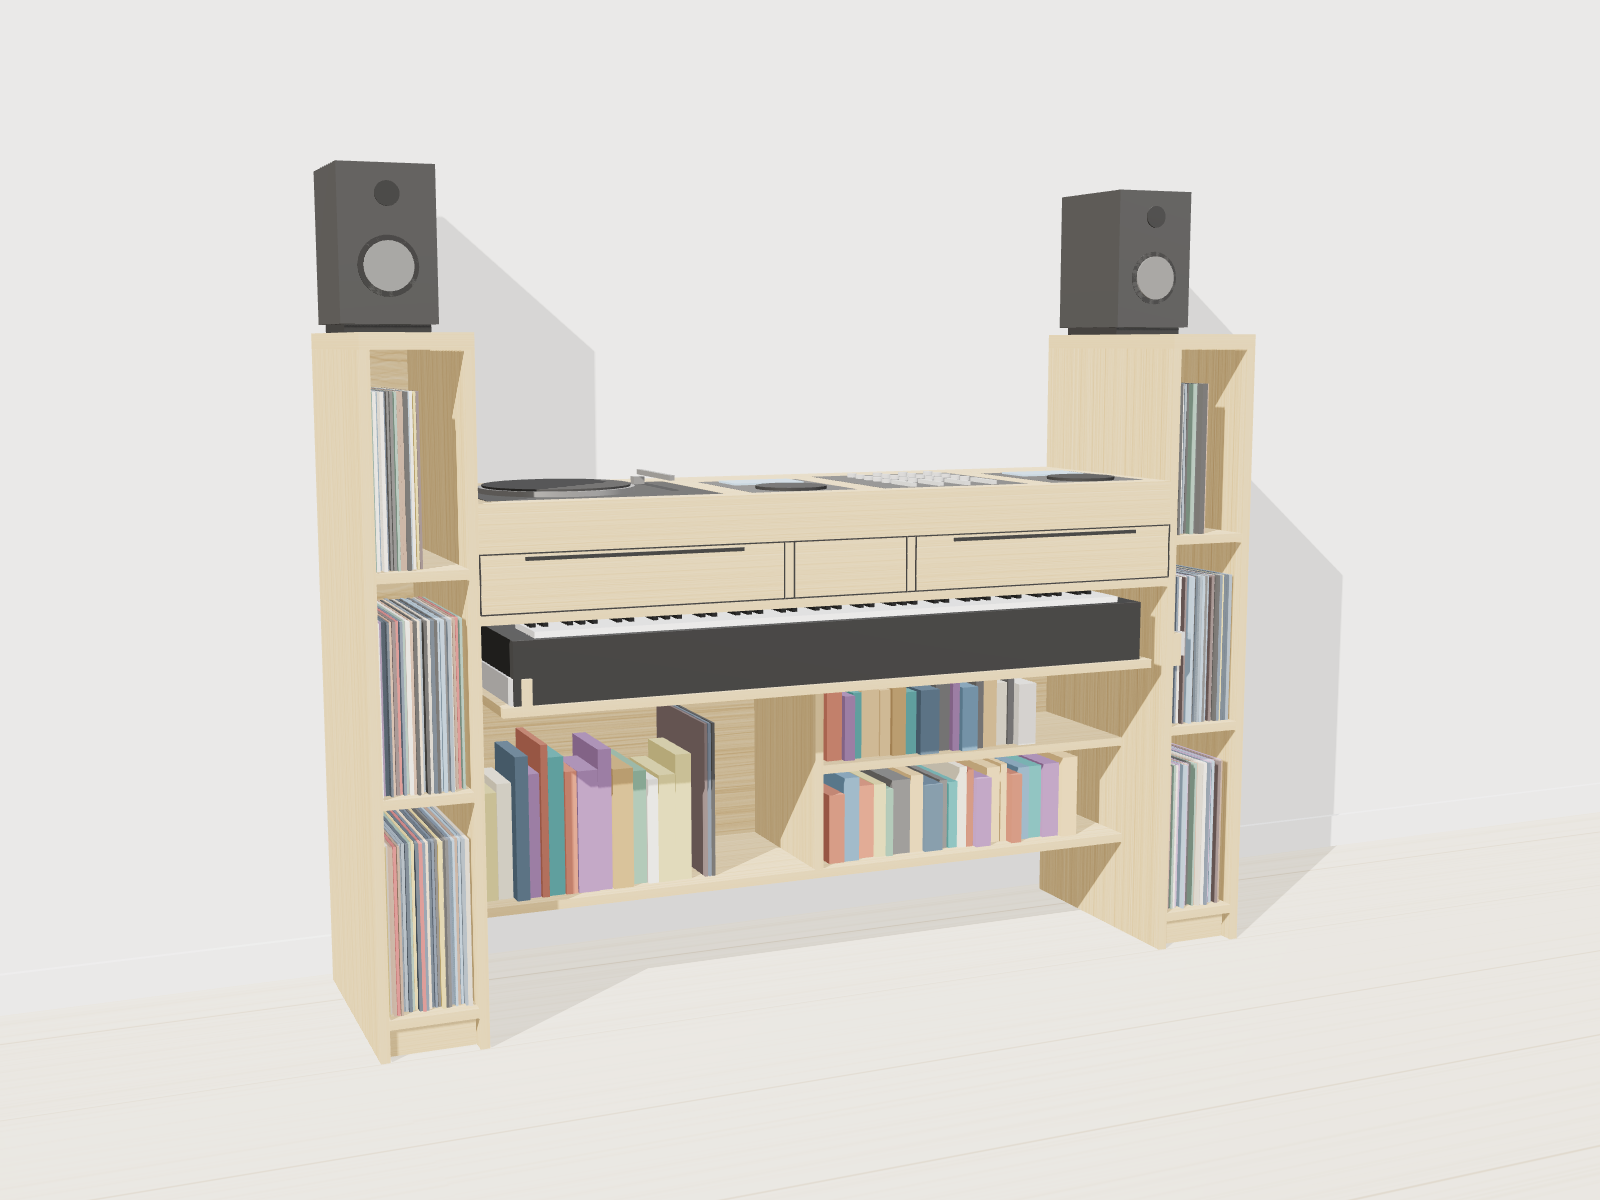
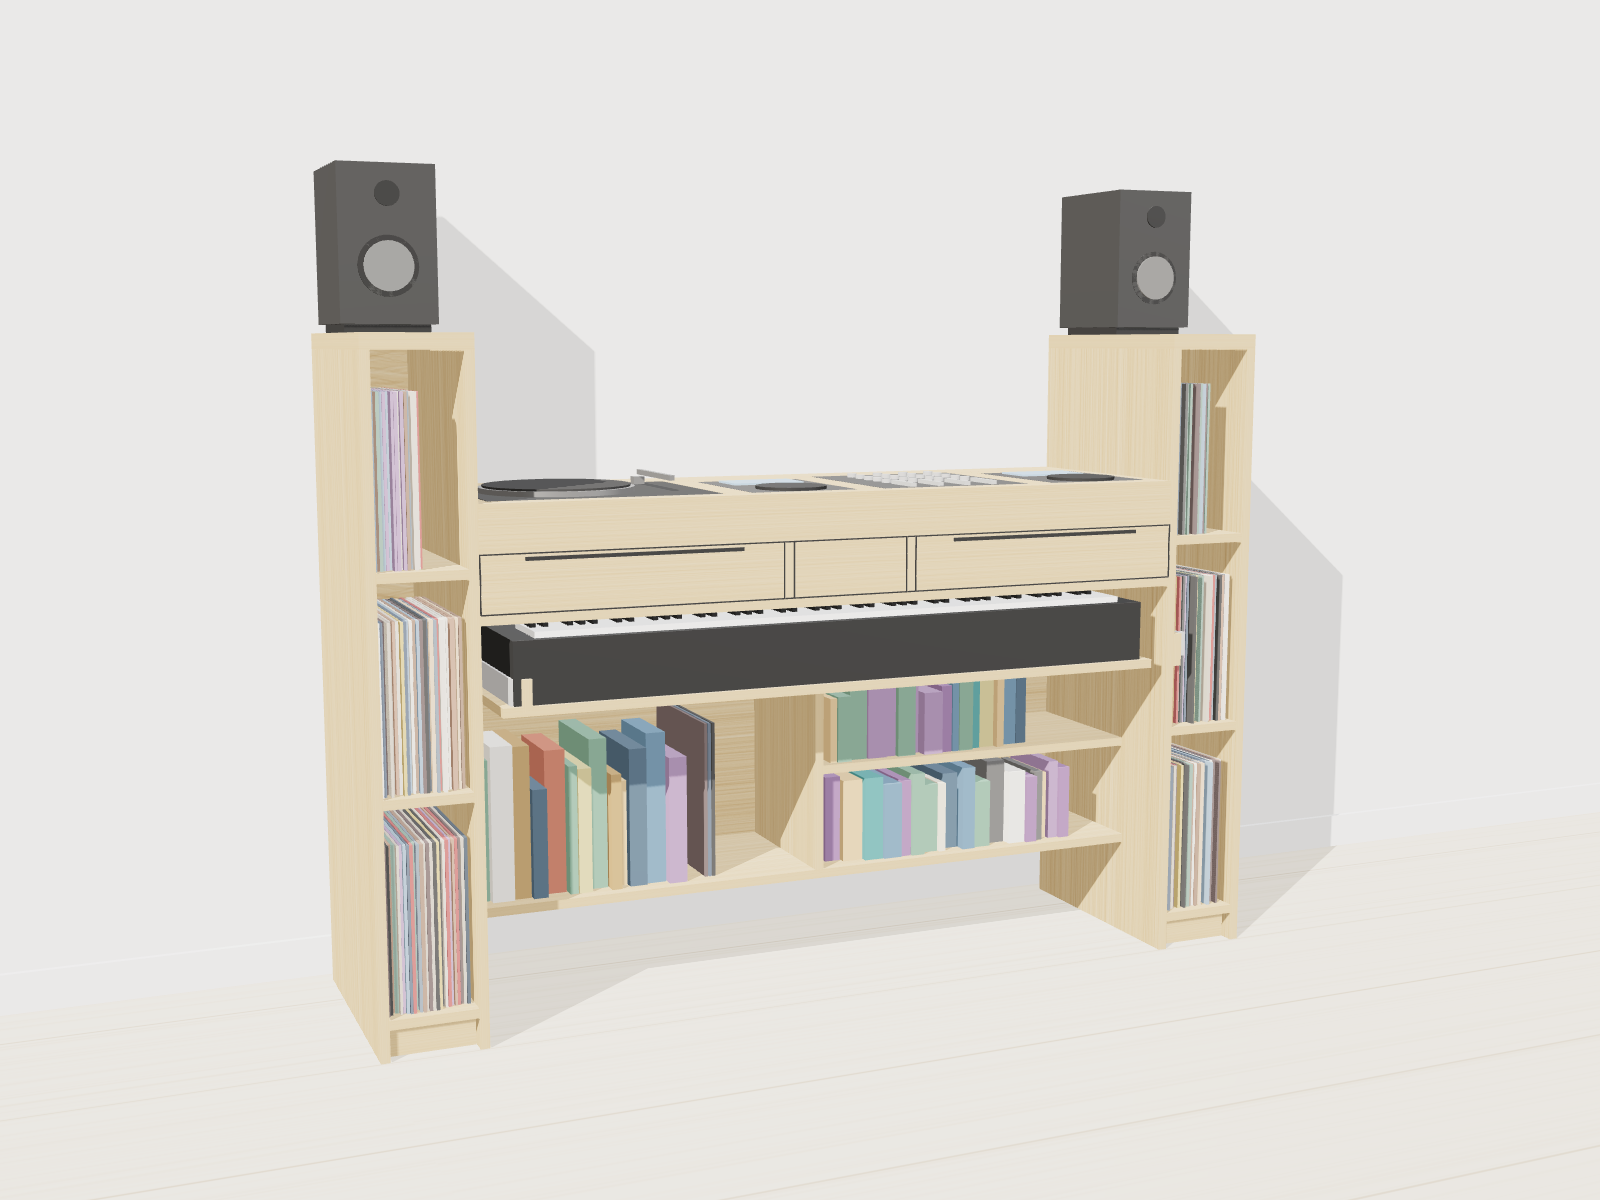
Seed render-cg.html's PRNG for reproducible concept renders
Math.random() was used in 5 places (wood grain, floor grain, record
colours, book colours/sizes) so every screenshot of render-cg.html
scrambled all of these even with identical geometry. That's why v1's
book-zone setback (10 cm, landed in v1.7) was never re-shot: doing so
would have made the diff unreviewable.

Swap in an inline mulberry32 PRNG seeded from a constant (0xC0FFEE),
shared by both variants so v1/v2 stay visually comparable like the
SVG sets. Re-shoot both renders now that it's safe: render-cg.png
finally shows the book zone set back from the front plane, and
render-cg-v2.png shows the flush-mounted gear in the thicker slab.
Verified a second render of each variant is byte-identical (sha256)
to the committed PNG.

Changed region(s): [[0.2188, 0.3083, 0.4375, 0.8633], [0.5, 0.555, 0.6875, 0.74], [0.7188, 0.3083, 0.7812, 0.7708]]

diff --git a/dj-piano-console/render-cg.html b/dj-piano-console/render-cg.html
@@ -1,6 +1,12 @@
 <!doctype html><html><head><meta charset="utf-8"><style>html,body{margin:0;background:#f3f1ec;overflow:hidden}canvas{display:block}</style></head><body>
 <script src="https://cdnjs.cloudflare.com/ajax/libs/three.js/r128/three.min.js"></script>
 <script>
+// Deterministic PRNG (mulberry32) seeded from a constant, so repeated renders of the same
+// variant are byte-identical instead of reshuffling every book/record colour and wood-grain
+// pixel on each screenshot. Same seed feeds both variants so they stay visually comparable
+// to each other, exactly like the two SVG sets.
+function mulberry32(a){return function(){a|=0;a=a+0x6D2B79F5|0;let t=Math.imul(a^a>>>15,1|a);t=t+Math.imul(t^t>>>7,61|t)^t;return((t^t>>>14)>>>0)/4294967296;};}
+const rand=mulberry32(0xC0FFEE);
 const V = new URLSearchParams(location.search).get('v') === '2' ? 2 : 1; // v2: flush-mounted gear, thicker apparent top, shallower drawer band, book zone set back 15 (v1.7 sets it back 10)
 const WALL_GAP = V===2?5.0:0; // v2 stands off the wall so the open trough can vent [0]
 const W=1600,H=1200;let OX=0; // x offset (cm) applied by box()/cyl(), used to shift the bay parts
@@ -18,8 +24,8 @@ sun.castShadow=true;sun.shadow.mapSize.set(4096,4096);const sc=sun.shadow.camera
 const fill=new THREE.DirectionalLight(0xe6eeff,0.4);fill.position.set(3.5,2.2,3);scene.add(fill);
 const rim=new THREE.DirectionalLight(0xffffff,0.25);rim.position.set(0.9,3,-3);scene.add(rim);
 function woodTex(vertical,base,streakDark,streakLight){const c=document.createElement('canvas');c.width=1024;c.height=1024;const g=c.getContext('2d');g.fillStyle=base;g.fillRect(0,0,1024,1024);
- for(let i=0;i<520;i++){const y=Math.random()*1024;const w=0.8+Math.random()*3.2;const a=0.05+Math.random()*0.2;g.strokeStyle=(Math.random()<0.5?streakDark:streakLight).replace('A',a.toFixed(2));g.lineWidth=w;g.beginPath();g.moveTo(-60,y);for(let x=0;x<=1100;x+=40){g.lineTo(x,y+Math.sin(x/160+i)*5+(Math.random()-0.5)*1.5);}g.stroke();}
- const id=g.getImageData(0,0,1024,1024);const d=id.data;for(let i=0;i<d.length;i+=4){const n=(Math.random()-0.5)*9;d[i]+=n;d[i+1]+=n;d[i+2]+=n;}g.putImageData(id,0,0);
+ for(let i=0;i<520;i++){const y=rand()*1024;const w=0.8+rand()*3.2;const a=0.05+rand()*0.2;g.strokeStyle=(rand()<0.5?streakDark:streakLight).replace('A',a.toFixed(2));g.lineWidth=w;g.beginPath();g.moveTo(-60,y);for(let x=0;x<=1100;x+=40){g.lineTo(x,y+Math.sin(x/160+i)*5+(rand()-0.5)*1.5);}g.stroke();}
+ const id=g.getImageData(0,0,1024,1024);const d=id.data;for(let i=0;i<d.length;i+=4){const n=(rand()-0.5)*9;d[i]+=n;d[i+1]+=n;d[i+2]+=n;}g.putImageData(id,0,0);
  const t=new THREE.CanvasTexture(c);t.wrapS=t.wrapT=THREE.RepeatWrapping;t.encoding=THREE.sRGBEncoding;t.anisotropy=8;if(vertical){t.center.set(0.5,0.5);t.rotation=Math.PI/2;}return t;}
 const oakH=new THREE.MeshStandardMaterial({map:woodTex(false,'#dcbf92','rgba(170,132,82,A)','rgba(240,222,190,A)'),roughness:0.7});
 const oakV=new THREE.MeshStandardMaterial({map:woodTex(true,'#dcbf92','rgba(170,132,82,A)','rgba(240,222,190,A)'),roughness:0.7});
@@ -31,7 +37,7 @@ const grey=new THREE.MeshStandardMaterial({color:0x8a8a8a,roughness:0.5});
 function box(w,h,d,x,y,z,m){const mesh=new THREE.Mesh(new THREE.BoxGeometry(w/100,h/100,d/100),m);mesh.position.set((x+OX)/100,y/100,z/100);mesh.castShadow=true;mesh.receiveShadow=true;scene.add(mesh);return mesh;}
 function cyl(r,h,x,y,z,m,axisZ){const mesh=new THREE.Mesh(new THREE.CylinderGeometry(r/100,r/100,h/100,48),m);if(axisZ)mesh.rotation.x=Math.PI/2;mesh.position.set((x+OX)/100,y/100,z/100);mesh.castShadow=true;mesh.receiveShadow=true;scene.add(mesh);return mesh;}
 // room
-const floorTex=(()=>{const c=document.createElement('canvas');c.width=1024;c.height=1024;const g=c.getContext('2d');g.fillStyle='#e9dfcd';g.fillRect(0,0,1024,1024);for(let i=0;i<300;i++){const y=Math.random()*1024;g.strokeStyle=`rgba(200,180,150,${(0.04+Math.random()*0.1).toFixed(2)})`;g.lineWidth=1+Math.random()*2;g.beginPath();g.moveTo(0,y);g.lineTo(1024,y+(Math.random()-0.5)*6);g.stroke();}for(let y=0;y<1024;y+=128){g.strokeStyle='rgba(150,125,95,0.35)';g.lineWidth=2;g.beginPath();g.moveTo(0,y);g.lineTo(1024,y);g.stroke();}const t=new THREE.CanvasTexture(c);t.wrapS=t.wrapT=THREE.RepeatWrapping;t.repeat.set(4,4);t.encoding=THREE.sRGBEncoding;t.anisotropy=8;return t;})();
+const floorTex=(()=>{const c=document.createElement('canvas');c.width=1024;c.height=1024;const g=c.getContext('2d');g.fillStyle='#e9dfcd';g.fillRect(0,0,1024,1024);for(let i=0;i<300;i++){const y=rand()*1024;g.strokeStyle=`rgba(200,180,150,${(0.04+rand()*0.1).toFixed(2)})`;g.lineWidth=1+rand()*2;g.beginPath();g.moveTo(0,y);g.lineTo(1024,y+(rand()-0.5)*6);g.stroke();}for(let y=0;y<1024;y+=128){g.strokeStyle='rgba(150,125,95,0.35)';g.lineWidth=2;g.beginPath();g.moveTo(0,y);g.lineTo(1024,y);g.stroke();}const t=new THREE.CanvasTexture(c);t.wrapS=t.wrapT=THREE.RepeatWrapping;t.repeat.set(4,4);t.encoding=THREE.sRGBEncoding;t.anisotropy=8;return t;})();
 const floor=new THREE.Mesh(new THREE.PlaneGeometry(12,12),new THREE.MeshStandardMaterial({map:floorTex,roughness:0.6}));floor.rotation.x=-Math.PI/2;floor.receiveShadow=true;scene.add(floor);
 const wall=new THREE.Mesh(new THREE.PlaneGeometry(14,5),new THREE.MeshStandardMaterial({color:0xf5f3ef,roughness:0.95}));wall.position.set(0.925,2.5,-0.5-WALL_GAP/100);wall.receiveShadow=true;scene.add(wall);
 box(1400,8,1.2,92.5,4,-49.4-WALL_GAP,white); // skirting: moves back with the wall, so the v2 gap is visible
@@ -51,7 +57,7 @@ const NOTCH=V===2?GEAR_Y:0;                                          // the divi
 const TOP_H=V===2?(100-Z_WELL_FLOOR):TT, TOP_Y=V===2?(Z_WELL_FLOOR+100)/2:98.5; // apparent slab [3 -> 9] thick
 function gh(trueH){return V===2?WELL_DROP:trueH;} // effective gear-body height: own height in v1, flush WELL_DROP in v2
 const recCols=[0x3b2f2f,0x6b4a3a,0xd9cbb3,0x2f3a4a,0xa3927a,0x8c2f2f,0x1f1f1f,0xc7b299,0x4a6b5a,0xe0d5c0,0x2f2f2f,0x7a5a8a,0x8a5a44,0x4a5a6a,0xbf8f3f,0x5a7a9a,0x222a33,0xd8a070];
-function records(x0,zBot,fillFrac){const n=Math.floor((WING-2*T-0.6)/0.6*fillFrac);for(let i=0;i<n;i++){const m=new THREE.MeshStandardMaterial({color:recCols[Math.floor(Math.random()*recCols.length)],roughness:0.85});const t=0.42+Math.random()*0.25;const set=Math.random()*2.5;box(t,31.3,31.3,x0+T+0.3+i*0.6,zBot+15.7,-1.5-set-15.65,m);}}
+function records(x0,zBot,fillFrac){const n=Math.floor((WING-2*T-0.6)/0.6*fillFrac);for(let i=0;i<n;i++){const m=new THREE.MeshStandardMaterial({color:recCols[Math.floor(rand()*recCols.length)],roughness:0.85});const t=0.42+rand()*0.25;const set=rand()*2.5;box(t,31.3,31.3,x0+T+0.3+i*0.6,zBot+15.7,-1.5-set-15.65,m);}}
 for(const x0 of [0,W_-WING]){
  box(T,127,D,x0+0.9,63.5,-25,oakV);box(T,127,D,x0+WING-0.9,63.5,-25,oakV);
  box(WING-2*T,119.2,T,x0+WING/2,67.4,-49.1,oakH);
@@ -122,7 +128,7 @@ box(32,gh(10.7),35.8,112.6,gearY+gh(10.7)/2,-19.9-GDZ,dark);for(let i=0;i<4;i++)
 box(21.8,gh(11.1),30.6,145.5,gearY+gh(11.1)/2,-17.3-GDZ,dark);box(15,0.4,9,145.5,gearY+gh(11.1)+0.2,-25-GDZ,new THREE.MeshStandardMaterial({color:0x4a6a8a,roughness:0.4,emissive:0x203040}));cyl(7,0.6,145.5,gearY+gh(11.1)+0.3,-9.5-GDZ,darker,false);
 // books
 const bookCols=[0x8a5a2b,0x3f6b4f,0x6b4a7a,0x2f4f6f,0xb59a4a,0x9a3a2a,0x333333,0xc98a4a,0xe8e0d0,0x223344,0x7a2f22,0x1f5f5f,0xd9c7a0,0x5a3a6a];
-function books(x0,x1,y0,hmin,hmax,seedShift){let x=x0;while(true){const w=1.4+Math.random()*3;const h=hmin+Math.random()*(hmax-hmin);if(x+w>x1)break;const d=14+Math.random()*8;box(w,h,d,x+w/2,y0+h/2,-(BOOK_SETBACK+2+Math.random()*3+d/2),new THREE.MeshStandardMaterial({color:bookCols[Math.floor(Math.random()*bookCols.length)],roughness:0.85}));x+=w+0.15;}}
+function books(x0,x1,y0,hmin,hmax,seedShift){let x=x0;while(true){const w=1.4+rand()*3;const h=hmin+rand()*(hmax-hmin);if(x+w>x1)break;const d=14+rand()*8;box(w,h,d,x+w/2,y0+h/2,-(BOOK_SETBACK+2+rand()*3+d/2),new THREE.MeshStandardMaterial({color:bookCols[Math.floor(rand()*bookCols.length)],roughness:0.85}));x+=w+0.15;}}
 books(17.5,62,21.8,21,31,1);
 // a couple of LPs leaning in the left compartment
 for(let i=0;i<3;i++){box(0.6,31.3,31.3,64+i*0.8,21.8+15.7,-(BOOK_SETBACK+4+15.65),new THREE.MeshStandardMaterial({color:recCols[i*3%recCols.length],roughness:0.85}));}
